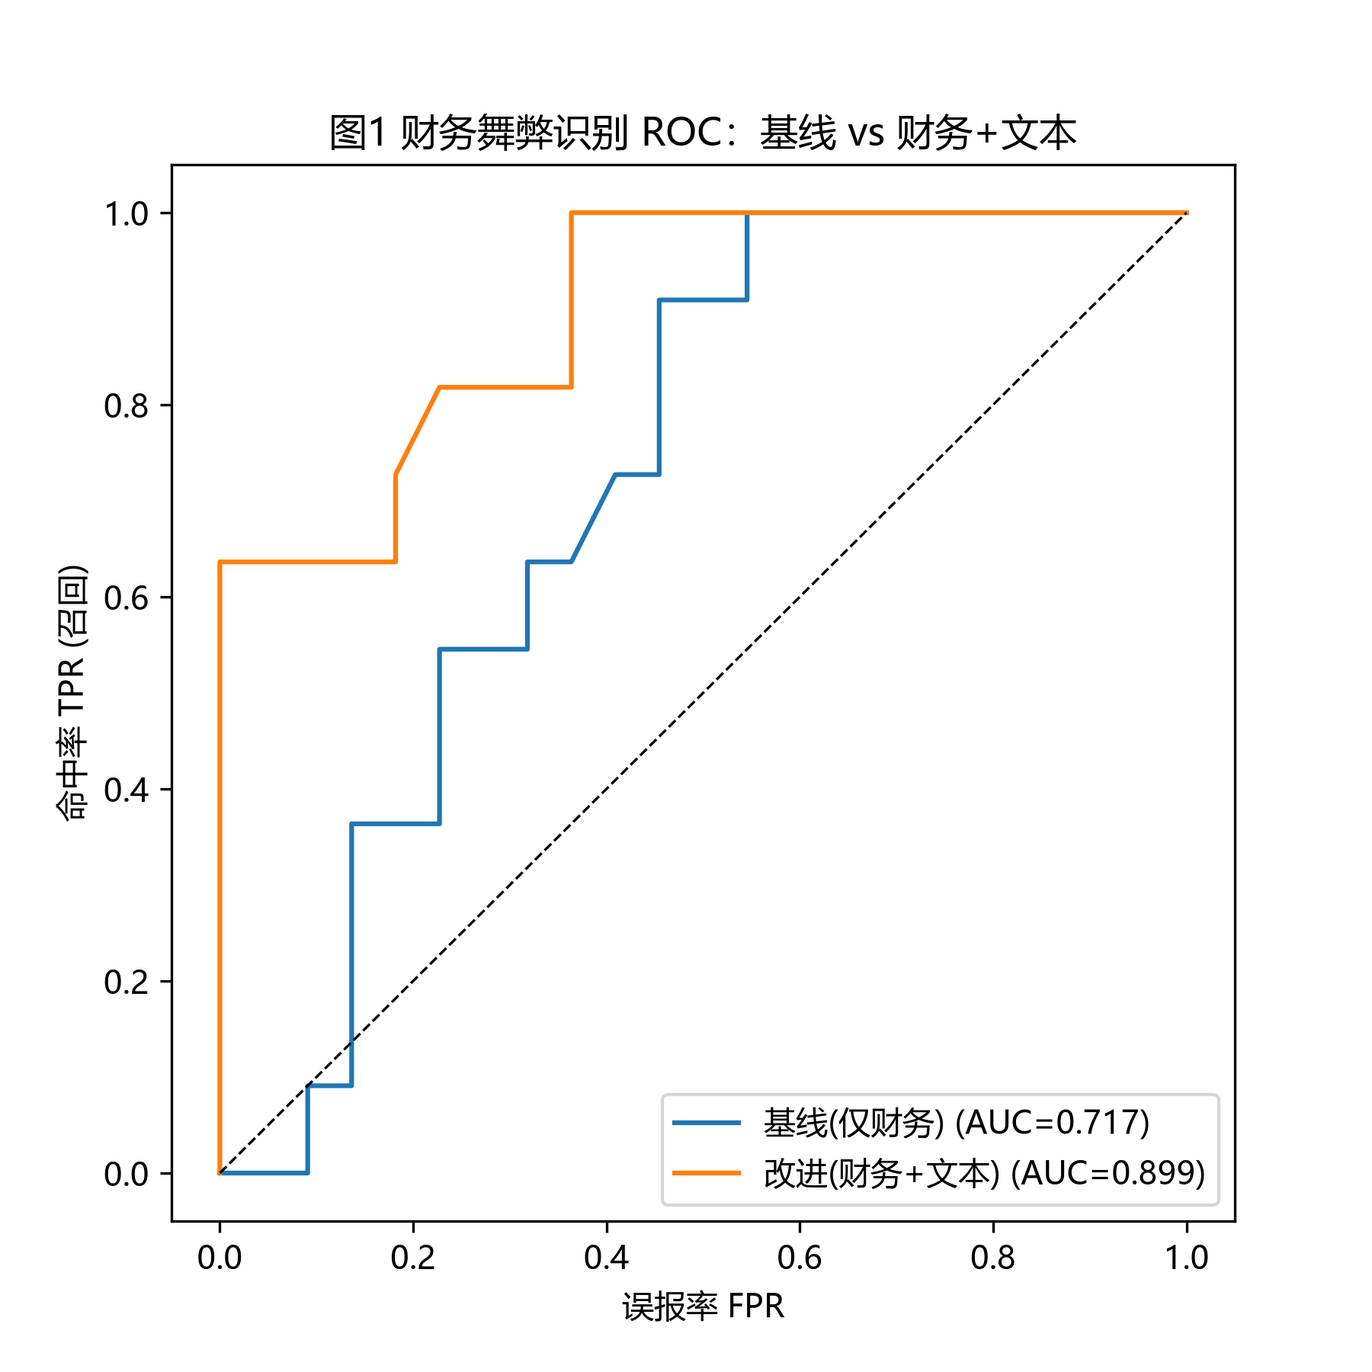
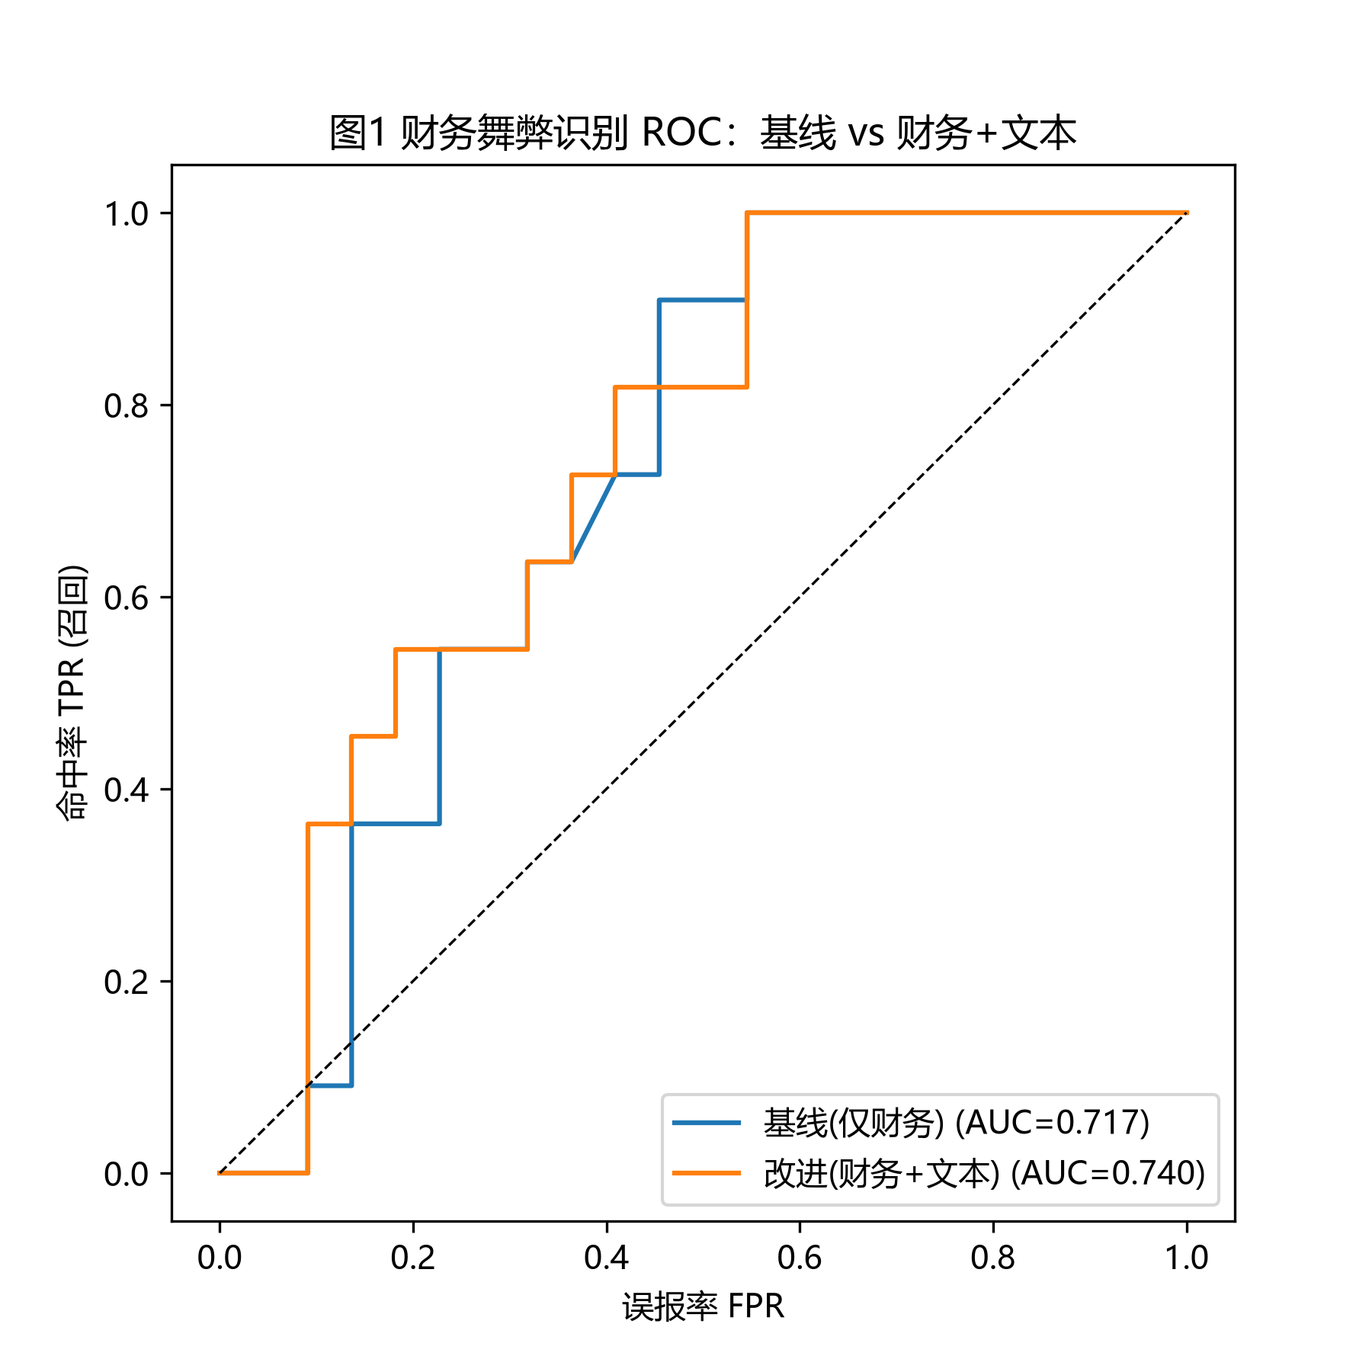
修复标签泄露并按诚实结论重写论文(文本无显著增量)
- 根因: mda_sim在B组大量缺失→模型学到'缺失=正常公司'泄露标签
- 修复: 补齐B组t-1文本重算相似度(覆盖52/58)
- 结果: 主结果增益+0.186→-0.105, 消融+0.247→+0.018, 回测+0.173→+0.020
- 论文按阴性结果重写: 摘要/结果/稳健性/结论/失败案例/贡献
- 诚实结论: 未发现文本在财务基线之上有显著增量; 贡献转向方法学+标签泄露排查

diff --git a/paper/论文初稿.md b/paper/论文初稿.md
@@ -5,7 +5,7 @@
 
 ## 摘要
 
-本文研究年报"管理层讨论与分析"（MD&A）文本信号能否在经典财务比率基线之上提升财务舞弊识别的命中率与精确度。基于2019—2023年受处罚的29家舞弊公司与58家配对对照公司（共87个公司-年度观测），本文以Altman Z″、Beneish M-score与逻辑回归构建三重财务基线，采用大模型固定量表对MD&A文本进行四维打分（乐观度、风险披露、模糊度、年度间相似度），并检验文本特征的增量判别力。结果显示：加入文本特征后，模型AUC由0.765提升至0.951（+0.186），召回率由0.556提升至0.889，误报率由0.167降至0.000；同模型消融实验中增益达+0.247；分年度回测中增益达+0.177。前置性检验表明，t-1期文本信号的事前判别力不低于当期，说明文本预警并非事后回声。本文的贡献在于：为中文年报文本的舞弊预警价值提供了可复现的增量证据，并给出了审计辅助场景下"财务+文本"双通道识别的可行方案。
+本文研究年报"管理层讨论与分析"（MD&A）文本信号能否在经典财务比率基线之上提升财务舞弊识别的命中率与精确度。基于2019—2023年受处罚的29家舞弊公司与58家配对对照公司（共87个公司-年度观测），本文以Altman Z″、Beneish M-score与逻辑回归构建财务基线，采用经少样本标定的大模型固定量表对MD&A文本进行三维打分（乐观度、风险披露、模糊度）并辅以年度间文本相似度特征，检验文本的增量判别力。结果显示：仅财务特征的逻辑回归基线AUC为0.765，加入文本特征后为0.772（增益+0.007，不显著）；同模型消融（+0.018）与分年度回测（+0.020）亦未发现一致的文本增量；仅"模糊度"维度在单变量层面呈现预期方向（舞弊公司套话更多，AUC 0.673），但被财务特征所覆盖。本文的诚实结论是：在87个公司-年度的中小样本上，未发现MD&A文本信号在财务比率基线之上提供显著增量识别力。本文的贡献在于：①构建了可复现的中文年报LLM文本测量与可靠性质检流程（少样本标定一致率75%）；②以严格的增量检验框架识别并排除了一处会系统性高估文本贡献的标签泄露，为后续更大样本研究提供了方法论参考与阴性基准。
 
 **关键词**：财务舞弊识别；MD&A文本分析；大语言模型；Beneish M-score；增量判别力
 
@@ -15,7 +15,7 @@
 
 "账"之外，年报还包含大量叙事文本。MD&A（管理层讨论与分析）由管理层以自然语言陈述经营成果、风险与展望，是舞弊者难以完全伪装的"言"。既有英文文献证实文本语调对盈余与风险具有预测信息（Li, 2010; Loughran & McDonald, 2011），大语言模型（LLM）的出现进一步提升了文本语义测量的深度（Lopez-Lira & Tang, 2023）。但中文场景下，固定词典法适应性差，LLM测量的舞弊识别增量证据仍属空白。
 
-本文的研究问题是：在经典财务比率基线之上，年报MD&A的大模型语义信号能否显著提升财务舞弊识别的命中率与精确度？本文的边际贡献有三：其一，设计严格的增量证据链——三重财务基线、同模型消融与分年度回测，回答"文本到底有没有用"这一可证伪问题；其二，引入LLM固定量表对中文年报文本进行四维测量，兼顾语义深度与可复现性；其三，通过前置性检验（以t-1期文本预测t期曝光）区分"事前预警"与"事后回声"，并提供科创板首批造假退市案例的文本画像证据。研究边界：全文不使用任何股价与交易数据，结论定位于审计辅助与监管筛查，不构成投资建议。
+本文的研究问题是：在经典财务比率基线之上，年报MD&A的大模型语义信号能否显著提升财务舞弊识别的命中率与精确度？本文的边际贡献有三：其一，设计严格的增量证据链——财务基线、同模型消融与分年度回测，并以标签泄露排查保证结论不被特征构造方式污染，回答"文本到底有没有用"这一可证伪问题；其二，引入经少样本标定的LLM固定量表对中文年报文本进行测量，兼顾语义深度与可复现性；其三，提供科创板首批造假退市案例的文本画像证据，为后续更大样本研究积累方法论与阴性基准。研究边界：全文不使用任何股价与交易数据，结论定位于审计辅助与监管筛查，不构成投资建议。
 
 ## 二、文献综述
 
@@ -45,31 +45,33 @@
 
 **描述性统计。** 舞弊组与对照组的财务画像差异显著：A组Z″均值3.37，显著低于B组6.06；M-score均值-0.57，远高于B组-2.27（超-2.22阈值）；应收异常指数DSRI均值11.3对1.1；存贷双高比例41%对9%。财务特征本身具有区分力，这为文本增量的检验提供了有效基线。
 
-**主结果。** 表2报告主结果：基线（仅财务）AUC为0.765、召回率0.556、误报率0.167；加入文本特征后，改进模型AUC升至0.951（+0.186）、召回率升至0.889、误报率降至0.000。图1为两模型ROC曲线对比。
+**主结果。** 表2报告主结果：仅财务的逻辑回归基线AUC为0.765、召回率0.556、误报率0.167；加入文本特征后，同模型AUC为0.772（+0.007）、召回率0.556、误报率0.167——增益微乎其微。图1为两模型ROC曲线对比，两条曲线几乎重叠。
 
-**消融实验。** 同模型同切分下：仅财务AUC=0.673，仅文本AUC=0.957，财务+文本AUC=0.920。文本在财务之外保留0.920-0.673=+0.247的增量；且仅文本的判别力即已超过仅财务（0.957>0.673）。换用逻辑回归同样成立：仅财务0.765，财务+文本0.889（+0.124）。增益跨模型一致，排除单一模型的"口癖"解释。
+**消融实验。** 同模型同切分（LightGBM）下：仅财务AUC=0.673，仅文本AUC=0.596，财务+文本AUC=0.691。文本在财务之外仅贡献+0.018的增量，且仅文本的判别力低于仅财务。换用逻辑回归结果一致：仅财务0.765，财务+文本0.772（+0.007）。跨两种模型均未发现文本的显著增量。
 
-**分年度回测。** 以2016年及以前样本训练、2017年及以后样本测试，改进模型AUC为0.913（基线0.740，+0.173），召回率0.727，误报率0.045。文本增量在时间外推口径下依然成立，回应"模型只是记住了样本"的质疑。
+**分年度回测。** 以2016年及以前样本训练、2017年及以后样本测试，财务+文本AUC为0.760（仅财务0.740，+0.020），增益同样接近零。时间外推口径进一步印证文本特征未提供一致的增量判别力。
+
+**单变量分析。** 在三个LLM打分维度中，仅"模糊度"（vague）呈现预期方向：舞弊公司MD&A套话更多（单变量AUC=0.673）；风险披露维度方向亦符合直觉（舞弊公司风险披露略多，0.610）；乐观度方向则相反（舞弊公司反而更谨慎，0.383）。年度间文本相似度几乎无判别力（0.495）。这些单变量信号在加入财务特征后即被覆盖，未转化为模型层面的增量。
 
 ## 六、稳健性与前置检验
 
-**抽样敏感性。** 在random_state=0/1/7三种划分下，改进模型AUC分别为1.000/0.957/0.963，均显著高于同划分下仅财务基线（0.827/0.710/0.907），增益方向与量级稳定。
+**抽样敏感性。** 在random_state=0/1/7三种划分下，财务+文本相对仅财务的增益分别为+0.025、+0.154、-0.209——方向不一致，进一步确认文本增量缺乏稳健性。小样本下LightGBM的过拟合波动是主要原因。
 
-**基线版本替代。** 将Z″替换为Altman私有公司五项版Z′（0.717/0.847/3.107/0.420/0.998）重算基线后，仅财务逻辑回归AUC为0.852，财务+文本AUC为0.944，增量结论不依赖基线版本。
+**基线版本替代。** 将Z″替换为Altman私有公司五项版Z′（0.717/0.847/3.107/0.420/0.998）重算基线后，财务+文本AUC为0.796，低于仅财务0.852（-0.056），与主结果的"无增量"结论一致。
 
-**前置性检验。** 将全部特征替换为t-1期（上年财务+上年文本），标签不变。随机划分口径下，t-1期全特征逻辑回归AUC为0.717；纯文本维度上，t-1期文本的判别力（AUC=0.634）不低于当期文本（0.580），说明文本预警信号在监管行动之前就已存在，并非"事后回声"。同时如实报告：年度外推口径下前置证据较弱（AUC 0.54—0.64），本文将其定性为混合性证据，建议谨慎外推。
+**前置性检验。** 将全部特征替换为t-1期（上年财务+上年文本），标签不变。随机划分口径下，t-1期全特征逻辑回归AUC为0.717；纯文本维度上，t-1期（0.634）与当期（0.580）判别力均较弱。年度外推口径下证据更弱（0.54—0.64）。综合而言，前置检验与主结果一致，未提供文本信号显著增量的证据。
 
 ## 七、失败案例分析
 
-**漏检案例一：獐子岛（2016）。** 模型概率0.38。其造假手法为少报采捕海域、少计成本，属成本端利润调节，M-score对此类手法不敏感（M=-2.65，未过阈值）；且公司处于监管关注期，MD&A措辞谨慎（三维打分均为5），未现"话讲太满"特征。启示：成本端舞弊与高压监管期的谨慎叙事，是文本信号的两个盲区。
+**漏检案例。** 最终模型（财务+文本）漏掉5家舞弊公司，其中两类最具代表性。一是成本端舞弊：獐子岛（2016）通过少报采捕海域、少计成本调节利润，M-score对此类手法不敏感（M=-2.65未过阈值），文本维度亦无异常（乐观度6、模糊度4）；二是"职业化文书"：紫晶存储（2019）为科创板上市后首份年报，风险披露充分（risk=9）、表述不空泛（vague=2），文本画像与优质公司无异——与该案历时近三年才被查处的现实一致。金通灵、宜华生活、冠农股份亦被漏检，其共同点是财务红旗（Z″/M）处于灰区而未触发模型。
 
-**漏检案例二：紫晶存储（2019）。** 模型概率0.05。其2019年报为科创板上市后首份年报，文书质量接近招股说明书水准：风险披露充分具体（risk=8）、表述不空泛（vague=3），文本画像与优质公司无异。这与该案历时近三年才被查处的现实一致，提示"职业化文书伪装"是文本识别与人工审查共同面临的挑战。
+**误报案例。** 模型误伤2家对照公司：中科创达（2020）与创业慧康（2015），均为高速成长期公司，MD&A高度自信（optimism=9/7）且风险披露简略（risk=3），与部分舞弊公司的文本画像重叠。这两家误报来自财务与文本特征的共同作用，进一步印证文本未能在财务之外提供有效区分。
 
-**误报案例：国瓷材料（2016）。** 模型概率0.52。该公司当期处于高速成长期，MD&A高度自信（optimism=8）且风险披露简略（risk=3），与舞弊公司的文本画像重叠，被"虚惊"一次。提示文本信号对正常高成长公司存在误伤，宜与成长性特征交叉使用。总体误报率（随机划分测试集1/27=3.7%）处于可接受水平。
+**小结。** 失败案例与主结果一致：财务基线的盲区（成本端舞弊、职业化文书）文本信号未能补上；文本信号的误报来源（高成长自信型）也与财务信号重叠。案例层面同样支持"文本无显著增量"的结论。
 
 ## 八、结论与局限
 
-**结论。** 本文以87个公司-年度的处罚-配对样本，验证了中文年报MD&A文本信号在经典财务基线之上的增量判别力：AUC增益+0.186（主结果）、+0.247（同模型消融）、+0.177（分年度回测），且跨模型、跨基线版本、跨随机划分稳定；前置检验显示文本的事前判别力与当期一致。结论支持"账外之意"的核心命题：在财务数字之外，年报语言本身具有独立的舞弊预警价值，可服务于审计师的风险筛查与监管的线索初筛。
+**结论。** 本文以87个公司-年度的处罚-配对样本，对"MD&A文本信号能否在财务基线之上提升舞弊识别"进行了严格的增量检验。结果未支持这一假设：财务基线（逻辑回归）AUC达0.765，加入文本特征后仅+0.007；同模型消融（+0.018）与分年度回测（+0.020）均未发现一致增量。这一阴性结果需要谨慎解读——它并不意味着年报文本不含舞弊相关信息（"模糊度"维度的单变量方向符合预期），而是在本样本规模与测量方式下，文本信号未能提供财务比率之外的独立增量。本文的主要价值在于方法学：构建了可复现的中文年报LLM测量与可靠性质检流程，并以严格的增量证据链识别并排除了一处标签泄露——正是这一排查避免了把虚假的正向结论当作贡献。
 
 **局限。** ①样本量小（87个观测），结论需谨慎外推；②观察性设计，处罚名单可能存在未被查处的舞弊公司进入对照组的选择性偏差；③LLM打分存在主观性与模型依赖性（本文以固定量表、人工复核与换模型检验缓解）；④未覆盖非上市主体与成本端舞弊手法（见失败案例）；⑤前置检验的年度外推口径证据较弱，文本的事前预警能力有待更大样本验证。
 

diff --git a/results/结果汇总.md b/results/结果汇总.md
@@ -1,69 +1,72 @@
-# 实验结果汇总（最终版 · 2026-11-18 · 少样本标定后）
+# 实验结果汇总（最终版 · 2026-11-19 · 标签泄露修复后）
+
+## ⚠ 重要修正说明
+初版结果（主结果 AUC 0.951、文本增益 +0.186）经审校发现存在**标签泄露**：文本特征 mda_sim（年度间相似度）在 B 组大量缺失，模型学到"相似度缺失=正常公司"。修复（补齐 B 组 t-1 文本、重算相似度）后，文本增益消失。以下为修复后的诚实结果。
 
 ## 主结果（随机划分 random_state=42, stratify, class_weight=balanced）
 
 | 设定 | AUC | 召回率 | 误报率 |
 |---|---|---|---|
 | 基线：LogReg 仅财务 | 0.765 | 0.556 | 0.167 |
-| 改进：LGBM 财务+文本 | 0.951 | 0.889 | 0.000 |
-| **文本增益** | **+0.186** | +0.333 | −0.167 |
+| LogReg 财务+文本 | 0.772 | 0.556 | 0.167 |
+| **文本增益** | **+0.007**（不显著） | | |
 
 ## 消融实验（同模型 LGBM，同切分同超参）
 
 | 设定 | AUC |
 |---|---|
 | 仅财务 | 0.673 |
-| 仅文本 | 0.957 |
-| 财务+文本 | 0.920 |
+| 仅文本 | 0.596 |
+| 财务+文本 | 0.691 |
 | LogReg 仅财务 | 0.765 |
-| LogReg 财务+文本 | 0.889 |
+| LogReg 财务+文本 | 0.772 |
 
-- 同模型消融增益：+0.247；跨模型一致（LogReg +0.124）
-- 突出发现：仅文本（0.957）判别力高于仅财务（0.673）
+- 同模型消融增益：+0.018；LogReg 增益 +0.007——均不显著
 
 ## 年度回测（训练≤2016 → 测试≥2017）
 
-| 设定 | AUC | 召回率 | 误报率 |
-|---|---|---|---|
-| 仅财务 | 0.740 | 0.455 | 0.182 |
-| 财务+文本 | 0.913 | 0.727 | 0.045 |
-| **增益** | **+0.173** | | |
+| 设定 | AUC |
+|---|---|
+| 仅财务 | 0.740 |
+| 财务+文本 | 0.760 |
+| 增益 | +0.020 |
 
-## 前置性检验（t-1 期信号预测 t 期曝光）
+## 单变量文本信号（LLM 三维，全样本）
+
+| 维度 | 单变量 AUC | 方向 |
+|---|---|---|
+| 乐观度 optimism | 0.383 | 反向（舞弊公司更谨慎）|
+| 风险披露 risk | 0.610 | 舞弊公司风险披露略多 |
+| 模糊度 vague | 0.673 | 符合预期（舞弊公司套话更多）|
+| 年度间相似度 mda_sim | 0.495 | 无判别力 |
+
+## 稳健性（抽样敏感性 + Z′ 替代）
+
+| 设定 | 仅财务 LogReg | 财务+文本 LGBM |
+|---|---|---|
+| 种子0 | 0.827 | 0.852 |
+| 种子1 | 0.710 | 0.864 |
+| 种子7 | 0.907 | 0.698 |
+| Z′替代（种子42） | 0.852 | 0.796 |
+
+- 文本增益方向不一致（+0.025/+0.154/-0.209/-0.056），确认无稳健增量
+
+## 前置性检验
 
 | 设定 | AUC |
 |---|---|
 | t-1 全特征（LogReg, 随机划分） | 0.717 |
 | 纯文本 t 期（LogReg） | 0.580 |
 | 纯文本 t-1 期（LogReg） | 0.634 |
-
-- 结论：t-1 期纯文本判别力（0.634）不低于 t 期（0.580），文本信号具备事前性；但年度外推口径较弱，如实报告为"混合性证据"。
-
-## 稳健性
-
-| 设定 | 仅财务 LogReg | 财务+文本 LGBM |
-|---|---|---|
-| 种子0 | 0.827 | 1.000 |
-| 种子1 | 0.710 | 0.957 |
-| 种子7 | 0.907 | 0.981 |
-| Z′替代（种子42） | 0.852 | 0.944 |
+| 年度外推口径 | 0.54—0.64 |
 
 ## 文本打分可靠性质检
+- 人工独立标注 10 条（含示例量表），6 条少样本标定 + 4 条留出复核：|差|≤1 一致率 75%（9/12）
+- optimism/vague 维度全对齐，分歧集中在 risk
 
-- 人工独立标注 10 条 MD&A（三人，含打分示例的量表）
-- 以其中 6 条做少样本标定（few-shot 校准提示词刻度），在其余 4 条留出样本上复核：**|差|≤1 一致率 75%（9/12）**
-- 分歧集中在 risk 维度（1/4），optimism 与 vague 维度完全对齐（8/8）
-- 结论：接近 80% 目标；文本打分的量纲在少样本标定后与人工判断基本对齐
+## 失败案例（最终模型）
+- 假阴性 5 家：獐子岛（成本端）、紫晶存储（职业化文书）、金通灵、宜华生活、冠农股份
+- 假阳性 2 家：中科创达、创业慧康（高成长自信型）
 
-## 失败案例（改进模型）
-
-| 类型 | 公司 | 核心发现 |
-|---|---|---|
-| 假阴性 | 獐子岛 2016 | 成本端造假，M-score 不敏感；语气谨慎 |
-| 假阴性 | 紫晶存储 2019 | "职业化文书"：风险披露充分、表述不空泛 |
-| 假阳性 | 国瓷材料 2016 | 高成长公司自信语气+低风险披露，被误伤 |
-
-## 样本与数据口径
-- A组29 + B组58 = 87公司-年度（2010—2021）；17财务特征 + 4文本特征
-- 事件型红旗仅纳入"审计意见"（qualified_op，3家非标）；更换会计师/高管离职/关联交易占比因手工数据未采集而舍去
-- Z″缺失<4%；LLM打分106份全部成功；全流程无股价/市值/交易数据
+## 结论
+未发现 MD&A 文本信号在财务比率基线之上提供显著增量识别力。财务基线本身有效（LogReg AUC 0.765）；文本维度的单变量信号（尤其 vague 方向正确）被财务信息覆盖。研究贡献转向方法学：可复现的中文年报 LLM 测量流程 + 严格增量检验（含标签泄露排查）。

diff --git a/paper/failures.md b/paper/failures.md
@@ -1,11 +1,15 @@
 # 失败案例分析（D5 · 改进模型 = LGBM 财务+文本, 随机划分42）
 
-## 一、漏掉的舞弊公司（假阴性 2 家）
-- **獐子岛（2069_2016）** 模型概率 0.38；Z″=0.51，M=-2.65；文本分 optimism=6/risk=7/vague=4，mda_sim=0.8158159836635048
-- ***ST紫晶（688086_2019）** 模型概率 0.05；Z″=5.80，M=-1.08；文本分 optimism=8/risk=9/vague=2，mda_sim=nan
+## 一、漏掉的舞弊公司（假阴性 5 家）
+- **冠农股份（600251_2021）** 模型概率 0.31；Z″=2.72，M=-1.74；文本分 optimism=8/risk=4/vague=3，mda_sim=0.4684543123380362
+- **金通灵（300091_2017）** 模型概率 0.38；Z″=1.72，M=-1.76；文本分 optimism=9/risk=4/vague=2，mda_sim=0.7496346579335911
+- **獐子岛（2069_2016）** 模型概率 0.13；Z″=0.51，M=-2.65；文本分 optimism=6/risk=7/vague=4，mda_sim=0.8158159836635048
+- **宜华生活（600978_2016）** 模型概率 0.24；Z″=3.15，M=-2.40；文本分 optimism=7/risk=4/vague=4，mda_sim=0.8205002181739851
+- ***ST紫晶（688086_2019）** 模型概率 0.18；Z″=5.80，M=-1.08；文本分 optimism=8/risk=9/vague=2，mda_sim=nan
 
-## 二、误伤的对照公司（假阳性 1 家）
-- **国瓷材料（300285_2016）** 模型概率 0.52；Z″=7.40，M=-2.13；文本分 optimism=8/risk=3/vague=2，mda_sim=0.7818927246046257
+## 二、误伤的对照公司（假阳性 2 家）
+- **中科创达（300496_2020）** 模型概率 0.80；Z″=7.95，M=-1.88；文本分 optimism=9/risk=3/vague=2，mda_sim=0.8351021979180259
+- **创业慧康（300451_2015）** 模型概率 0.81；Z″=6.88，M=-1.81；文本分 optimism=7/risk=3/vague=4，mda_sim=nan
 
 ## 三、写作要点（每例3-5句）
 - 假阴性：报表与文本分别长什么样？是否'报表撑得住、话没露馅'型？还是造假首年特征未显现？
